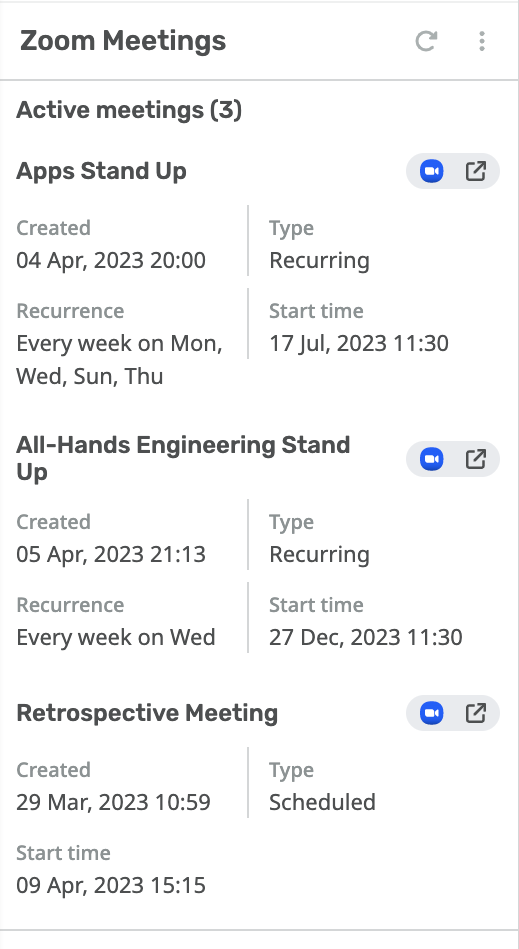
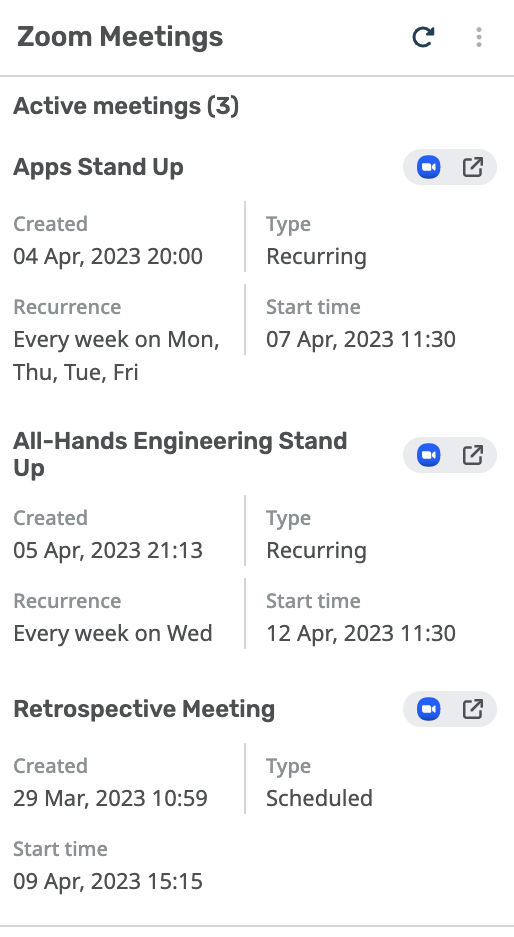
Fixed the start date of the recurrence meetings

diff --git a/src/services/zoom/types.ts b/src/services/zoom/types.ts
@@ -1,4 +1,4 @@
-import type { DateTime } from "../../types";
+import type { Dict, DateTime } from "../../types";
 
 export type OAuthToken = {
   token_type: "bearer",
@@ -31,30 +31,19 @@ export type User = {
   pmi: number,
 };
 
-export type Recurrence = {
-  type:
-    | 1 // Daily
-    | 2 // Weekly
-    | 3 // Monthly
-  repeat_interval: number,
-  end_date_time: DateTime,
-  weekly_days?: string,
-  monthly_day?: number,
-};
-
-export type MeetingType =
+export type MeetingTypes =
   | 1 // Instant meeting.
   | 2 // Scheduled meeting.
   | 3 // Recurring meeting with no fixed time.
   | 8 // Recurring meeting with a fixed time.
 ;
 
-export type Meeting = {
+export type MeetingItem = {
   uuid: string,
   id: number,
   host_id: string,
   topic: string,
-  type: MeetingType,
+  type: MeetingTypes,
   start_time: DateTime,
   duration: number,
   timezone: string,
@@ -66,5 +55,49 @@ export type Meetings = {
   page_size: number,
   total_records: number,
   next_page_token: "",
-  meetings: Meeting[],
+  meetings: MeetingItem[],
 };
+
+//
+export type OccurrenceItem = {
+  occurrence_id: string,
+  start_time: DateTime,
+  duration: number,
+  status: string,
+};
+
+export type Recurrence = {
+  type:
+    | 1 // Daily
+    | 2 // Weekly
+    | 3 // Monthly
+  repeat_interval: number,
+  end_date_time: DateTime,
+  weekly_days?: string,
+  monthly_day?: number,
+};
+
+export type MeetingDetails = {
+  id: number,
+  uuid: string,
+  host_id: User["id"]
+  host_email: User["email"],
+  assistant_id: User["id"],
+  topic: string,
+  type: MeetingTypes,
+  status: string, // "waiting",
+  timezone: DateTime,
+  agenda: string,
+  created_at: DateTime,
+  start_url: string,
+  join_url: string,
+  password: string,
+  h323_password: string,
+  pstn_password: string,
+  encrypted_password: string,
+  occurrences: OccurrenceItem[],
+  settings: Dict< never>,
+  recurrence: Recurrence,
+  pre_schedule: boolean,
+}
+  ;

diff --git a/src/components/Home/Meetings/views/Recurring.tsx b/src/components/Home/Meetings/views/Recurring.tsx
@@ -10,7 +10,7 @@ import type { FC } from "react";
 import type { MeetingProps } from "../../types";
 
 const Recurring: FC<MeetingProps> = ({ meeting }) => {
-  const data = useQueryWithClient(
+  const meetingDetails = useQueryWithClient(
     [QueryKey.MEETINGS, `${meeting.id}`],
     (client) => getMeetingService(client, meeting.id),
   );
@@ -31,9 +31,12 @@ const Recurring: FC<MeetingProps> = ({ meeting }) => {
       />
       <TwoProperties
         leftLabel="Recurrence"
-        leftText={getHumanReadableRecurrence(get(data, ["data", "recurrence"]))}
+        leftText={getHumanReadableRecurrence(get(meetingDetails, ["data", "recurrence"]))}
         rightLabel="Start time"
-        rightText={format(meeting.start_time, DATETIME_FORMAT)}
+        rightText={format(
+          get(meetingDetails, ["data", "occurrences", 0, "start_time"]),
+          DATETIME_FORMAT,
+        )}
       />
     </div>
   );

diff --git a/src/components/Home/__tests__/Home.test.tsx b/src/components/Home/__tests__/Home.test.tsx
@@ -4,7 +4,7 @@ import { render } from "../../../../testing";
 import mockMeetings from "../../../../testing/mocks/mockMeetings.json";
 import mockMeeting84350791442 from "../../../../testing/mocks/mockMeeting84350791442.json";
 import mockMeeting87605567807 from "../../../../testing/mocks/mockMeeting87605567807.json";
-import type { Meeting } from "../../../services/zoom/types";
+import type { MeetingItem } from "../../../services/zoom/types";
 
 jest.mock("../../../services/zoom/getMeetingService");
 
@@ -15,7 +15,7 @@ describe("Home", () => {
       .mockResolvedValueOnce(mockMeeting87605567807);
 
     const { findByText } = render(
-      <Home meetings={mockMeetings.meetings as Meeting[]} />,
+      <Home meetings={mockMeetings.meetings as MeetingItem[]} />,
       { wrappers: { theme: true, query: true } },
     );
 

diff --git a/src/components/Home/Meetings/Meetings.tsx b/src/components/Home/Meetings/Meetings.tsx
@@ -7,7 +7,7 @@ import { Container } from "../../common";
 import { Instant, Recurring, Scheduled, } from "./views";
 import type { FC } from "react";
 import type { Props, MeetingProps } from "../types";
-import type { Meeting as TMeeting } from "../../../services/zoom/types";
+import type { MeetingTypes } from "../../../services/zoom/types";
 
 enum MeetingTypeMap {
   INSTANT = 1,
@@ -16,7 +16,7 @@ enum MeetingTypeMap {
   RECURRING_WITH_FIXED_TIME = 8,
 }
 
-const map = (type: TMeeting["type"]) => {
+const map = (type: MeetingTypes) => {
   return match(type)
     .with(MeetingTypeMap.INSTANT, () => Instant)
     .with(MeetingTypeMap.SCHEDULED, () => Scheduled)

diff --git a/src/services/zoom/getMeetingService.ts b/src/services/zoom/getMeetingService.ts
@@ -1,12 +1,12 @@
 import { baseRequest } from "./baseRequest";
 import type { IDeskproClient } from "@deskpro/app-sdk";
-import type { Meeting, Meetings } from "./types";
+import type { MeetingDetails } from "./types";
 
 const getMeetingService = (
   client: IDeskproClient,
-  meetingId: Meeting["id"],
+  meetingId: MeetingDetails["id"],
 ) => {
-  return baseRequest<Meetings>(client, {
+  return baseRequest<MeetingDetails>(client, {
     url: `/meetings/${meetingId}`,
   });
 };

diff --git a/src/components/Home/types.ts b/src/components/Home/types.ts
@@ -1,9 +1,9 @@
-import type { Meeting } from "../../services/zoom/types";
+import type { MeetingItem } from "../../services/zoom/types";
 
 export type Props = {
-  meetings: Meeting[],
+  meetings: MeetingItem[],
 };
 
 export type MeetingProps = {
-  meeting: Meeting,
+  meeting: MeetingItem,
 };
